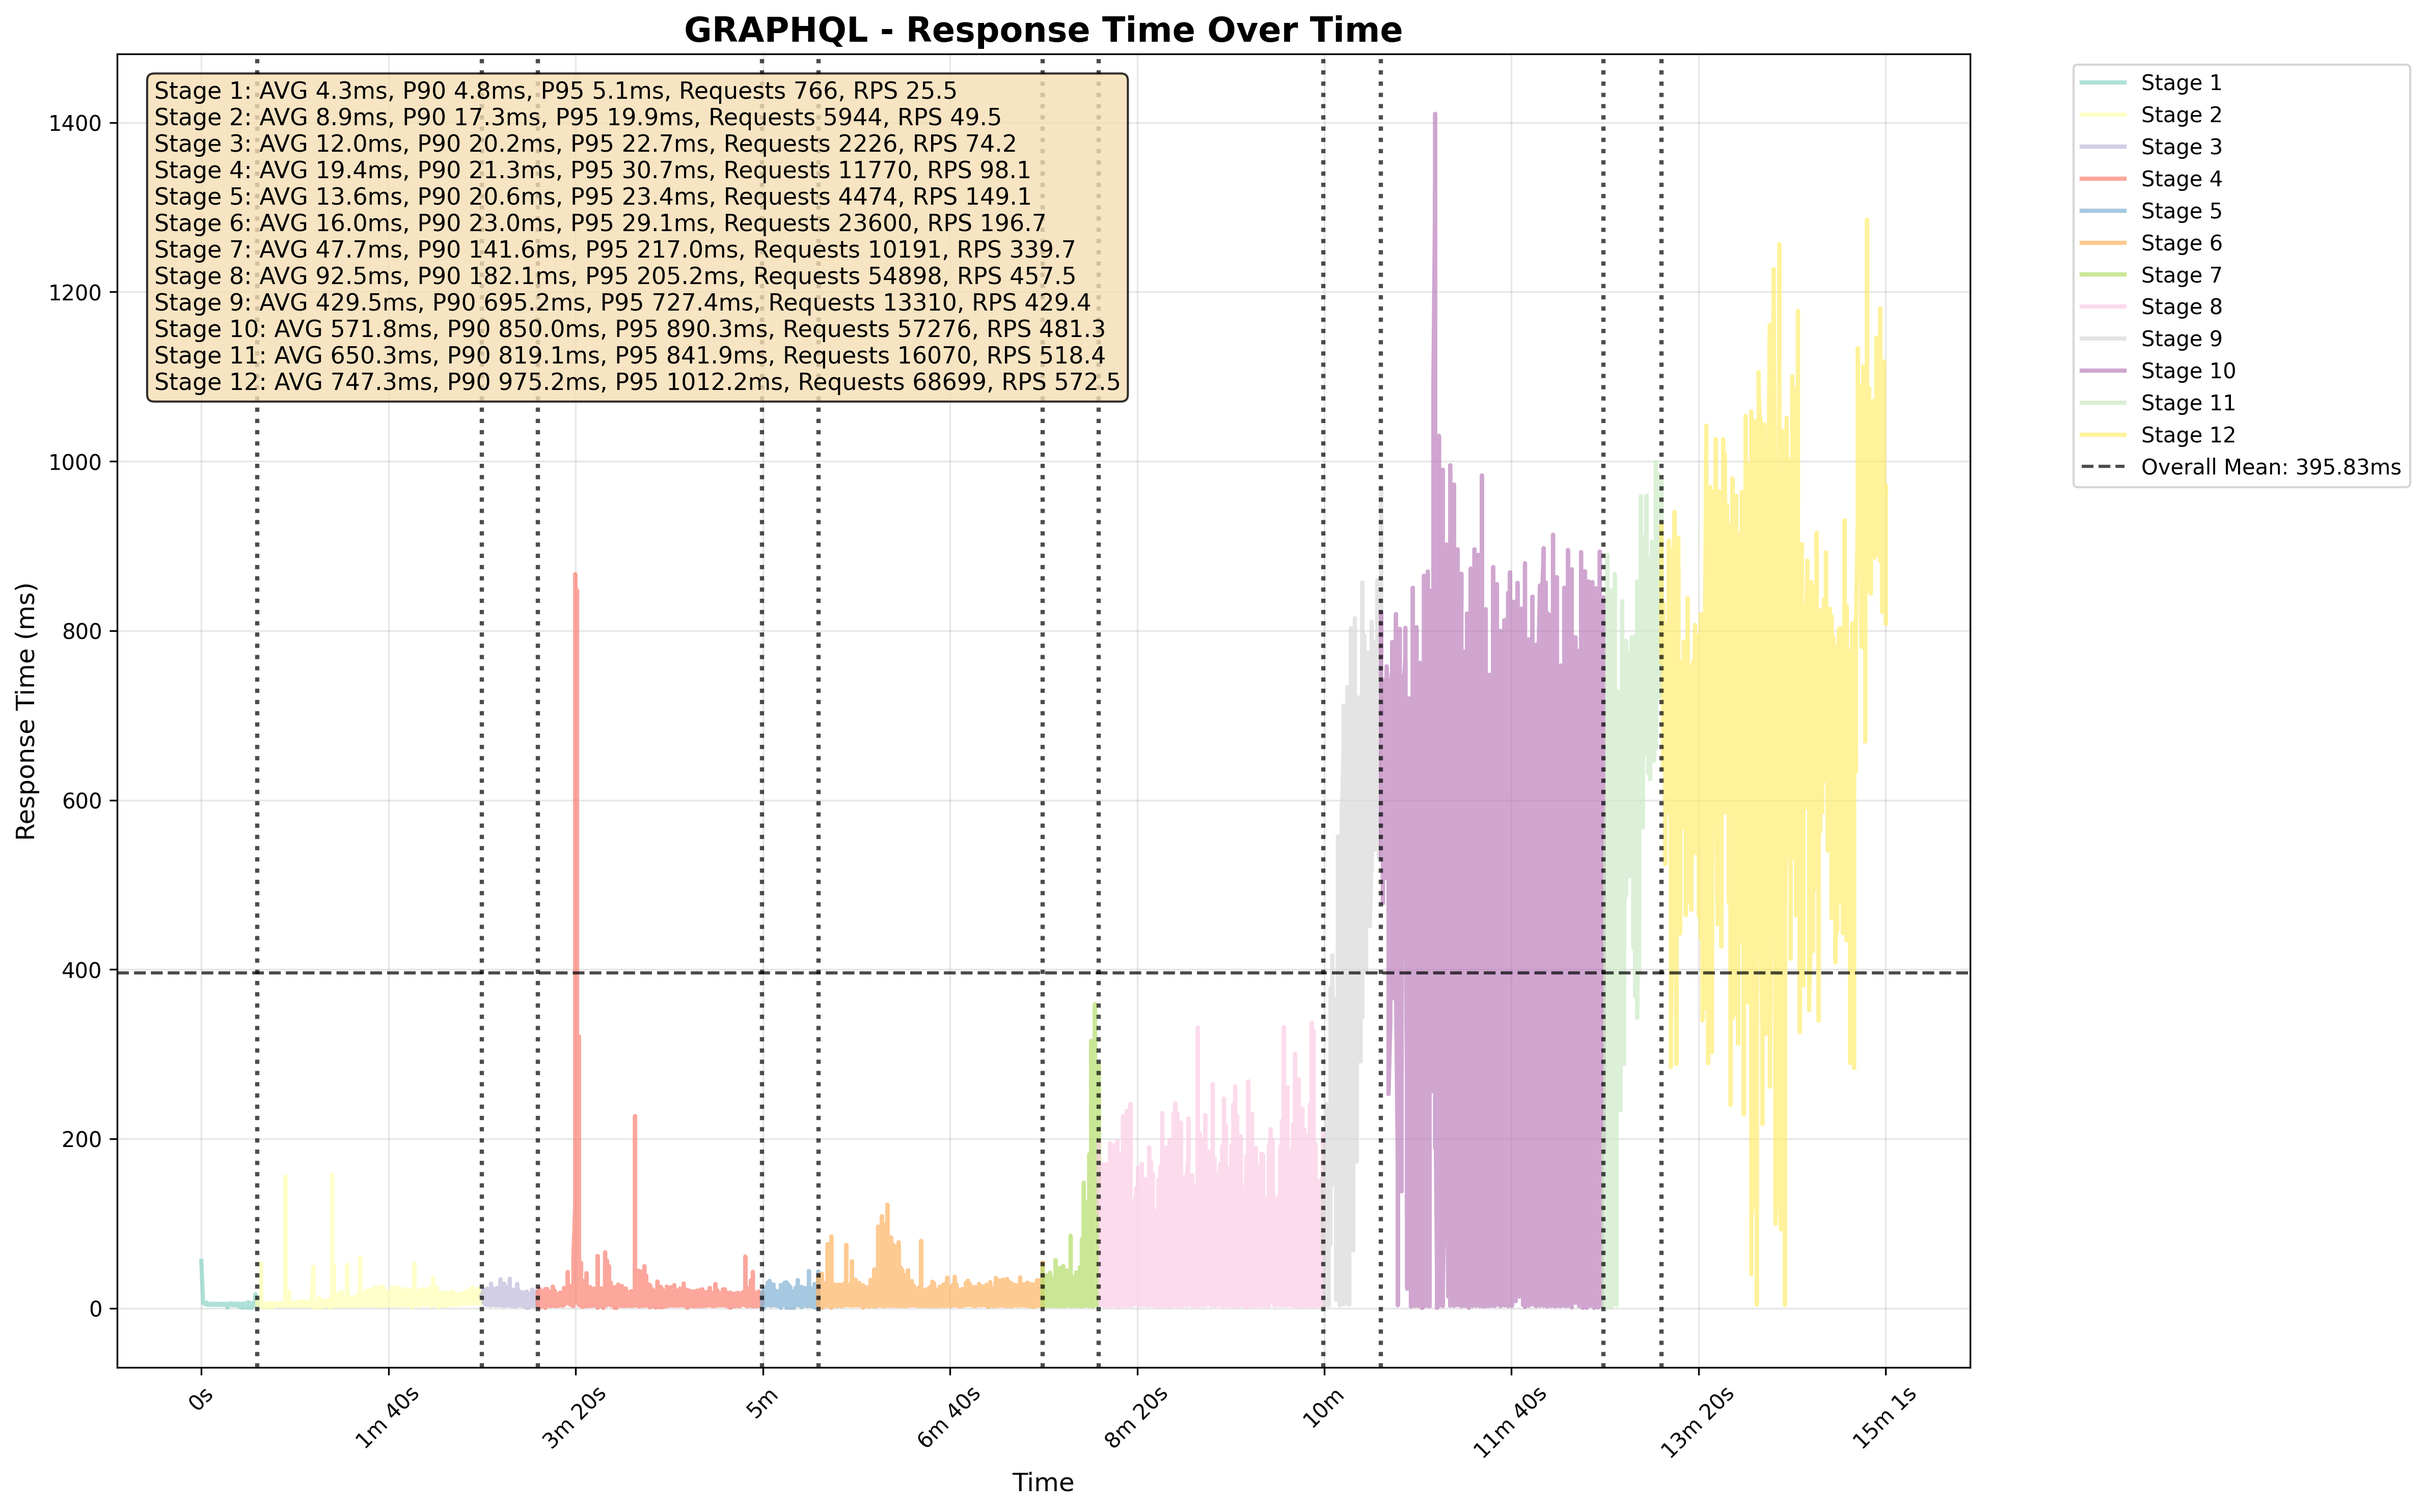
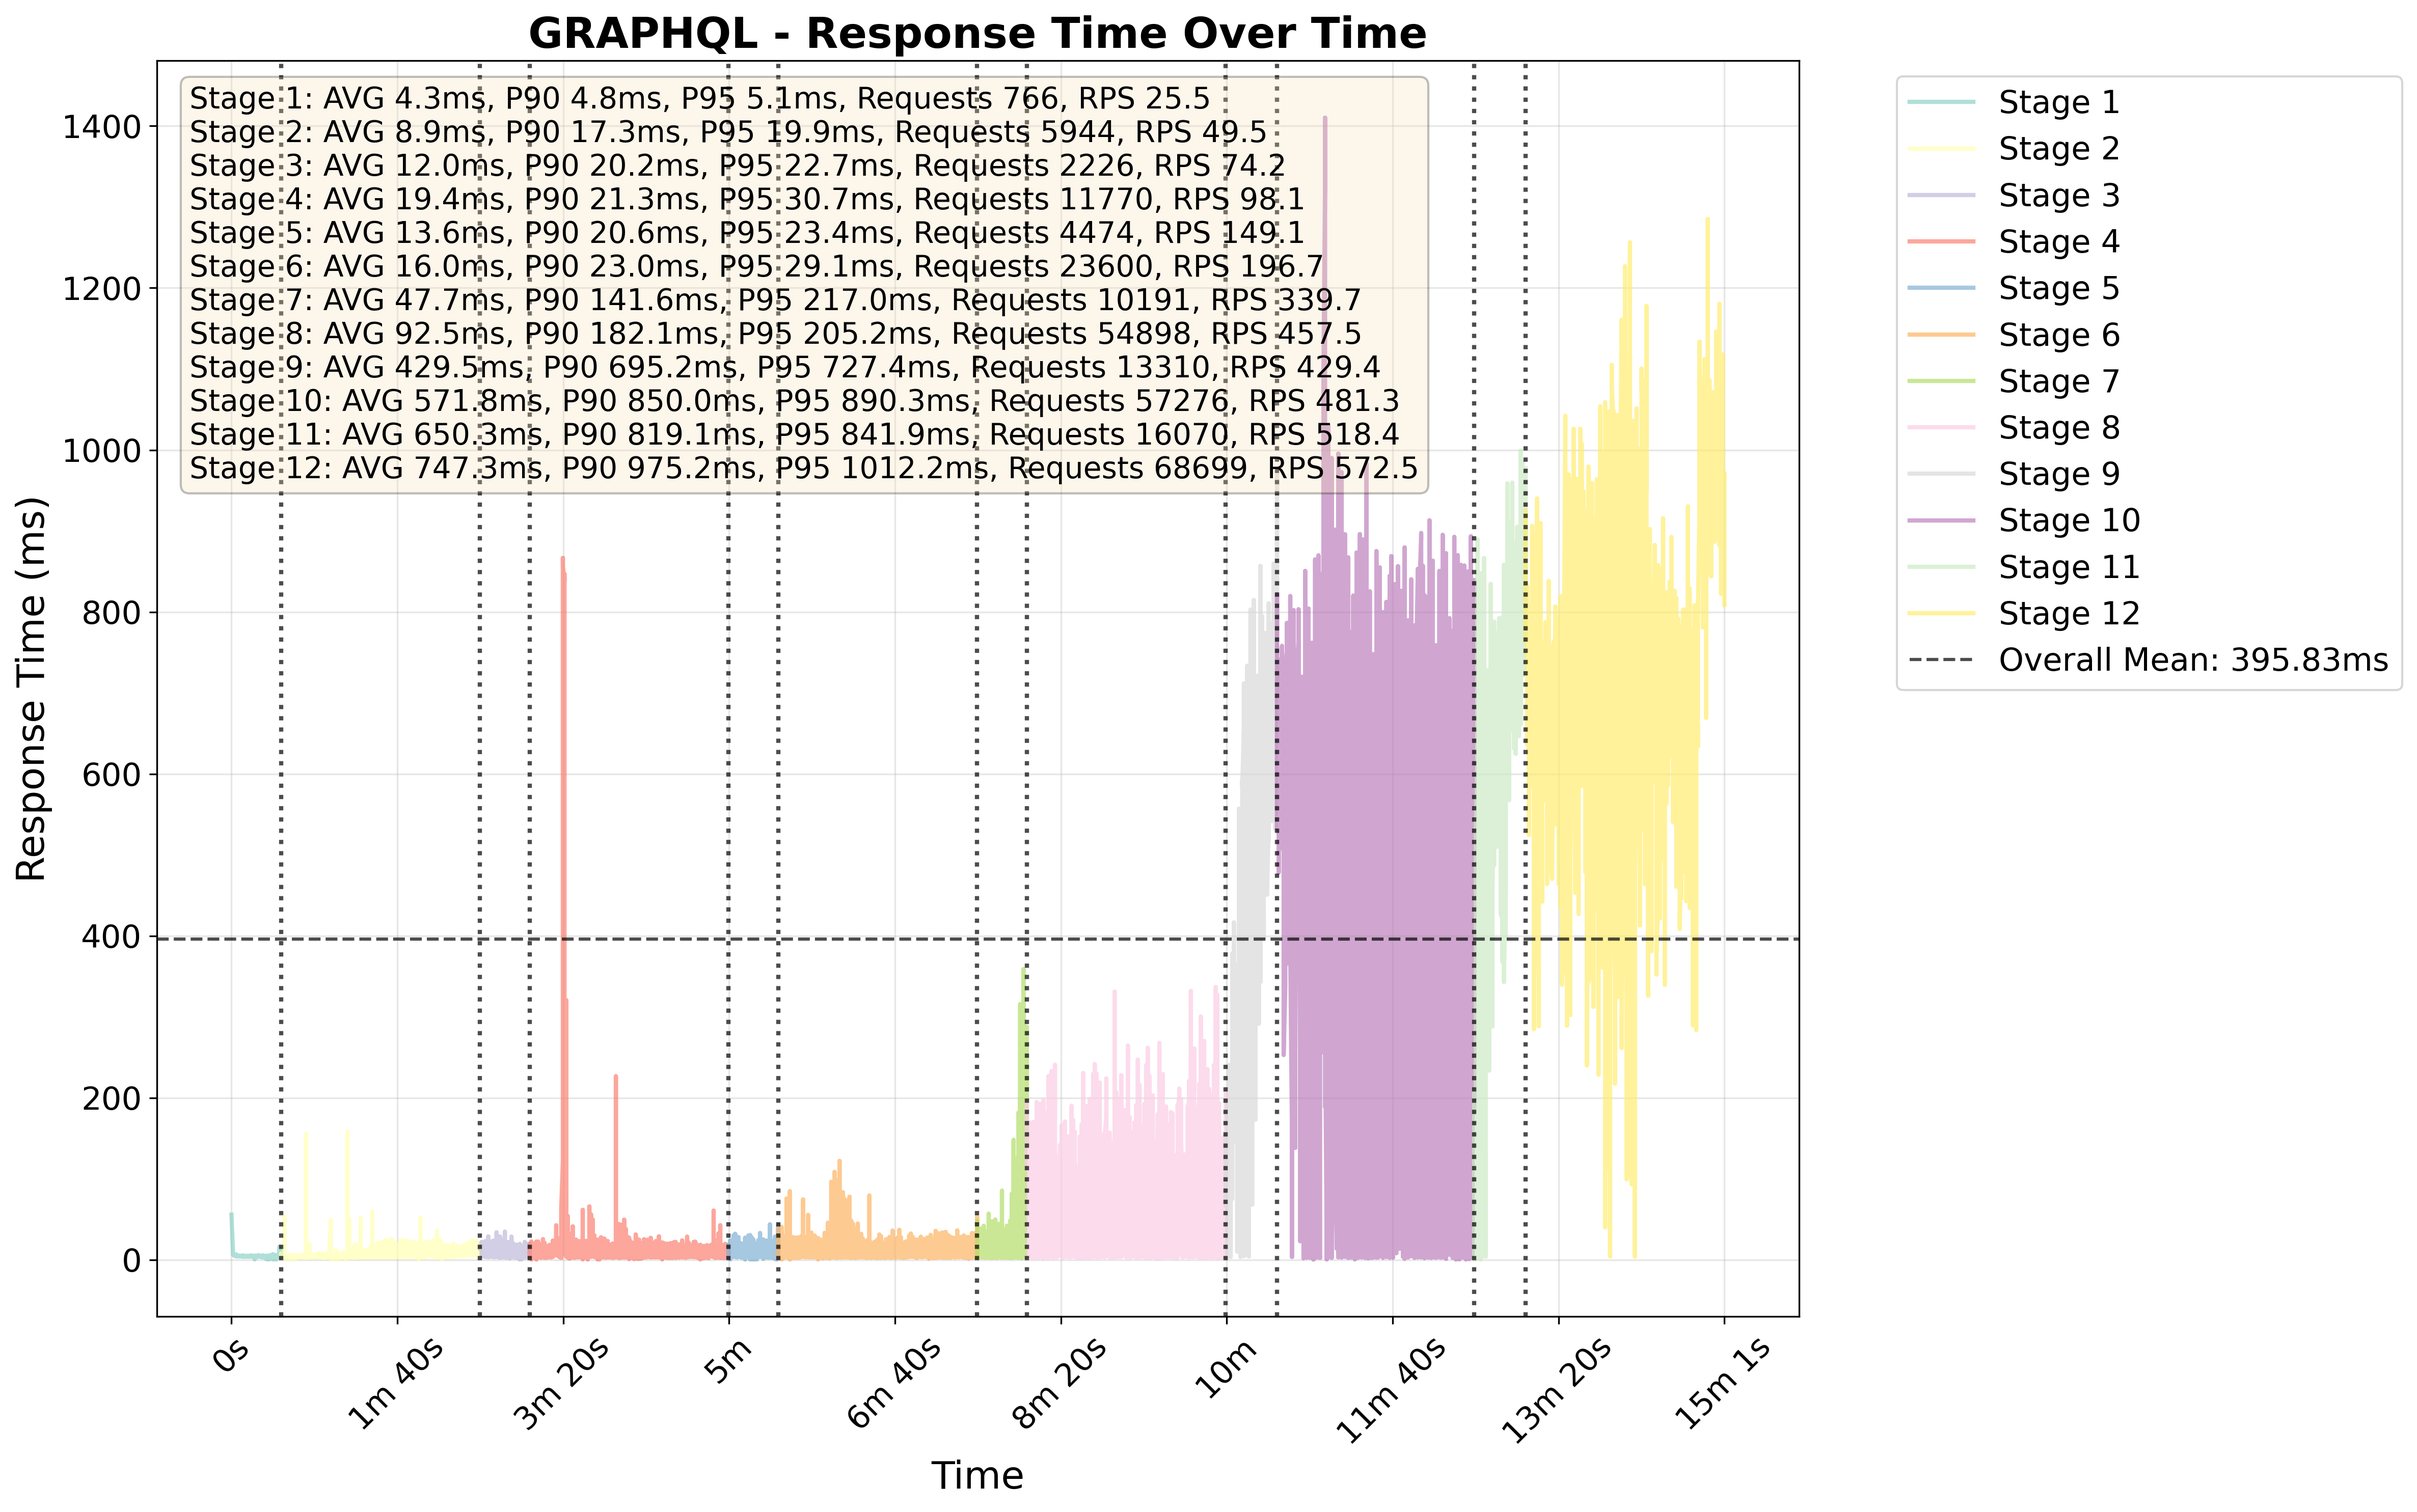
TMP

diff --git a/performance-analytics/k6_chart_generator.py b/performance-analytics/k6_chart_generator.py
@@ -272,7 +272,7 @@ class K6ChartGenerator:
             
             # Determine API type for title
             api_type = self._determine_api_type_from_data(response_data)
-            plt.title(f'{api_type} - Response Time Over Time', fontsize=16, fontweight='bold')
+            plt.title(f'{api_type} - Response Time Over Time', fontsize=20, fontweight='bold')
             
             # Add stage statistics
             stage_info = []
@@ -293,8 +293,8 @@ class K6ChartGenerator:
             
             info_text = '\n'.join(stage_info)
             plt.text(0.02, 0.98, info_text, transform=plt.gca().transAxes, 
-                    verticalalignment='top', bbox=dict(boxstyle='round', facecolor='wheat', alpha=0.8),
-                    fontsize=11)
+                    verticalalignment='top', bbox=dict(boxstyle='round', facecolor='wheat', alpha=0.25),
+                    fontsize=14)
             
         else:
             # Plot without stage information
@@ -302,10 +302,10 @@ class K6ChartGenerator:
                     linewidth=1, alpha=0.7, color='#2E86AB')
             # Determine API type for title
             api_type = self._determine_api_type_from_data(response_data)
-            plt.title(f'{api_type} - Response Time Over Time', fontsize=16, fontweight='bold')
+            plt.title(f'{api_type} - Response Time Over Time', fontsize=20, fontweight='bold')
         
-        plt.xlabel('Time', fontsize=12)
-        plt.ylabel('Response Time (ms)', fontsize=12)
+        plt.xlabel('Time', fontsize=18)
+        plt.ylabel('Response Time (ms)', fontsize=18)
         
         # Convert timestamps to relative time for x-axis labels
         start_time = response_data['timestamp'].min()
@@ -329,7 +329,10 @@ class K6ChartGenerator:
         # Format x-axis with relative time labels
         ax = plt.gca()
         ax.set_xticks(tick_timestamps)
-        ax.set_xticklabels([self._format_relative_time(t) for t in tick_relative_times], rotation=45)
+        ax.set_xticklabels([self._format_relative_time(t) for t in tick_relative_times], rotation=45, fontsize=15)
+        
+        # Set y-axis tick labels to match x-axis font size
+        ax.tick_params(axis='y', labelsize=15)
         
         # Add overall statistics
         mean_time = response_data['metric_value'].mean()
@@ -339,7 +342,7 @@ class K6ChartGenerator:
         plt.axhline(y=mean_time, color='black', linestyle='--', alpha=0.7, 
                    label=f'Overall Mean: {mean_time:.2f}ms')
         
-        plt.legend(bbox_to_anchor=(1.05, 1), loc='upper left')
+        plt.legend(bbox_to_anchor=(1.05, 1), loc='upper left', fontsize=15)
         plt.tight_layout()
         
         if output_file:
